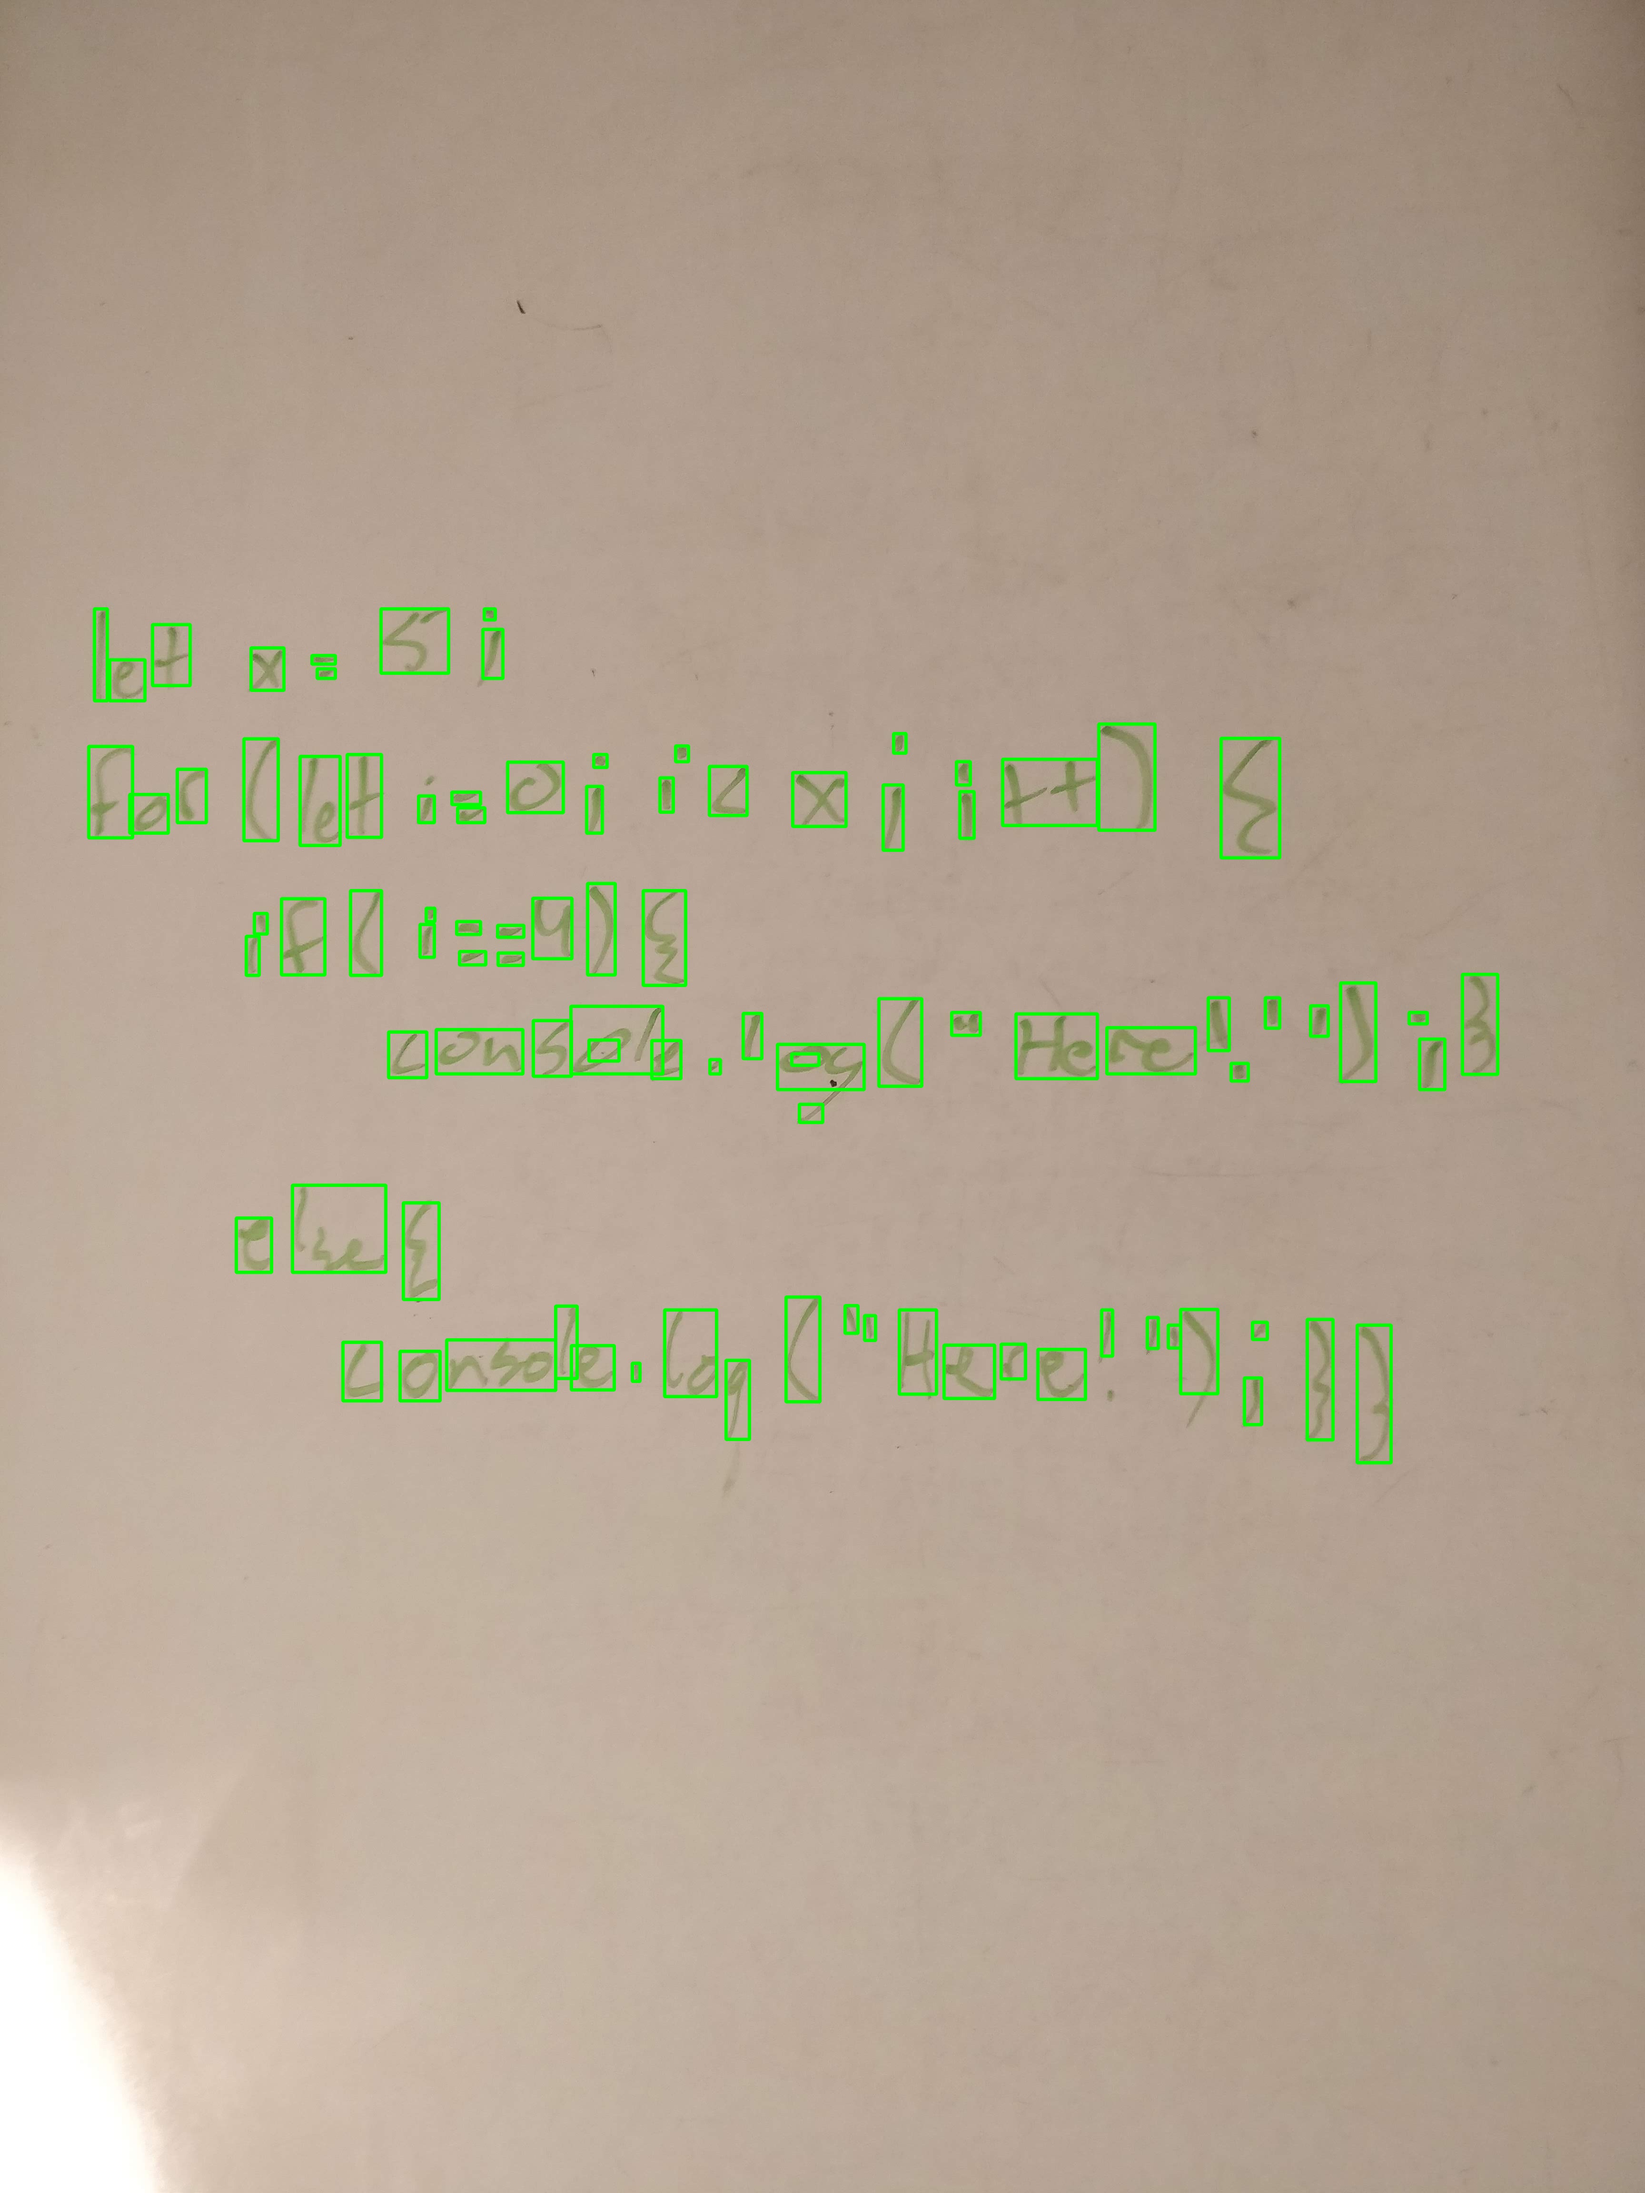
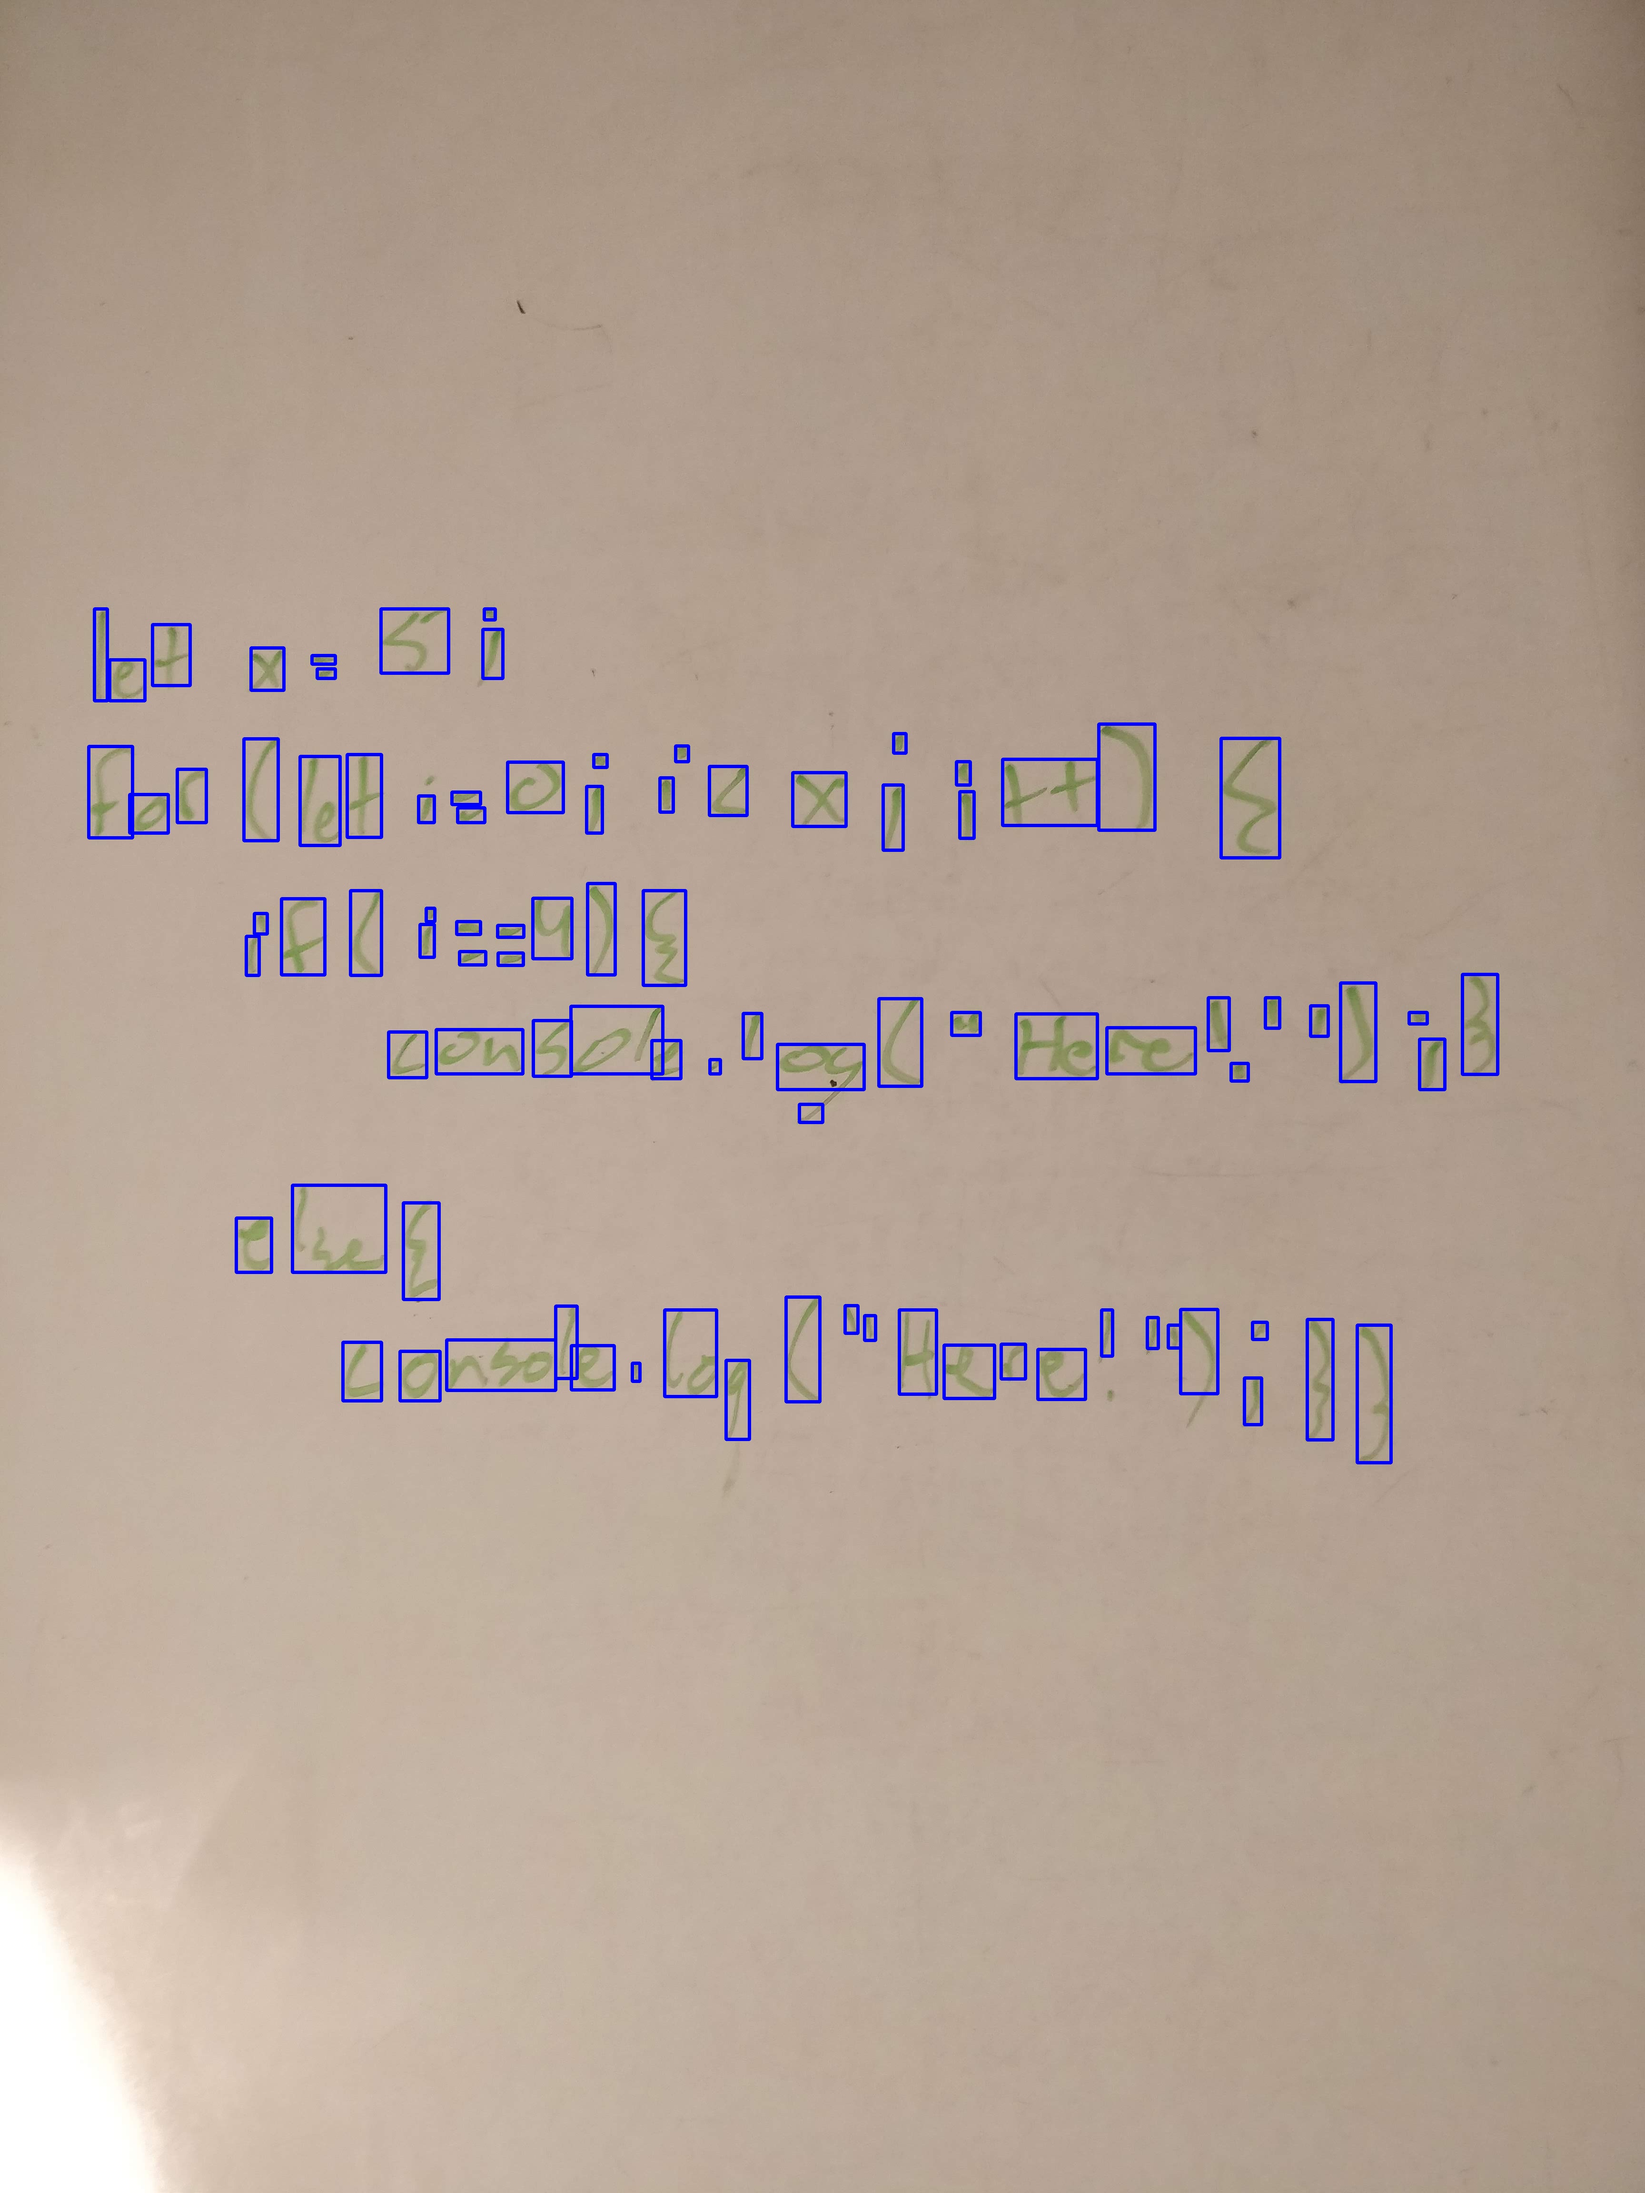
text detection

diff --git a/textdetection/textdetection.py b/textdetection/textdetection.py
@@ -12,48 +12,253 @@ import filter
 
 class TextDetection:
 
-  def __init__(self, imageFile):
+    def __init__(self, imageFile):
 
-    self.imageFile = imageFile
-    self.img = cv.imread(self.imageFile)
-    self.listRect = []
+        self.imageFile = imageFile
+        self.img = cv.imread(self.imageFile)
+        self.original = cv.imread(self.imageFile)
+        self.listRect = []
+        self.listLines = []
+        self.listImages = []
 
-  def boxCharacters(self):
-      f = filter.ColorFilter()
-      img = f.process(self.img)
+    def execute(self):
+        self.boxCharacters()
+        self.deleteBoxinBox()
+        self.genLists()
+        self.sortListLines()
+        self.combineVertical()
+        self.sortLines()
+        self.writeRectsToImage()
+        self.cutImages()
 
-      im2, contours, hierarchy = cv.findContours(img, cv.RETR_TREE, cv.CHAIN_APPROX_SIMPLE)
-      im2 = cv.rectangle(im2, (0,0), (100,100), (0,255,0))
+   # KEEP
 
-      im2 = np.reshape(im2, (*im2.shape, 1))
-      im2 = np.append(im2, np.append(im2, im2, axis=2), axis=2)
+    def boxCharacters(self):
+        f = filter.ColorFilter()
+        img = f.process(self.img)
+        self.img = img
 
-      for c in contours:
-          x, y, w, h = cv.boundingRect(c)
+        im2, contours, hierarchy = cv.findContours(
+            img, cv.RETR_TREE, cv.CHAIN_APPROX_SIMPLE)
+        im2 = cv.rectangle(im2, (0, 0), (100, 100), (0, 255, 0))
 
-          if w*h > 500:
-              self.listRect.append(cv.boundingRect(c))    
+        im2 = np.reshape(im2, (*im2.shape, 1))
+        im2 = np.append(im2, np.append(im2, im2, axis=2), axis=2)
 
-  def writeRectsToImage(self):
-      vis = self.img.copy()
-      for rect in self.listRect:
-          x, y, w, h = rect
-          cv.rectangle(vis, (x, y), (x+w, y+h), (0, 255, 0), thickness=5)
-      cv.imwrite('output.jpg', vis)
+        for c in contours:
+            x, y, w, h = cv.boundingRect(c)
 
-  def checkRectInRect(self, rectIndex1, rectIndex2, rect1Tuple, rect2Tuple):
-      x1, y1, w1, h1 = rect1Tuple
-      x2, y2, w2, h2 = rect2Tuple
-      if x1 <= x2 and y1 <= y2 and x1+w1 <= x2+w2 and y1+h1 <= y2+w2:
-        self.listRect.pop(rectIndex1)
-        return True
-      elif x1 >= x2 and y1 >= y2 and x1+w1 >= x2+w2 and y1+h1 >= y2+h2:
-        self.listRect.pop(rectIndex2)
-        return True
-      else:
-        return False 
+            if w*h > 100:
+                self.listRect.append(cv.boundingRect(c))
+    # KEEP
 
-text = TextDetection("image1.jpg")
-text.boxCharacters()
-text.writeRectsToImage()
+    def writeRectsToImage(self):
+        vis = self.original.copy()
+        counter = 0
+        for line in self.listLines:
+            for box in line:
+                if counter % 3 == 0:
+                    x, y, w, h = box
+                    cv.rectangle(vis, (x, y), (x+w, y+h),
+                                 (255, 0, 0), thickness=5)
+                elif counter % 3 == 1:
+                    x, y, w, h = box
+                    cv.rectangle(vis, (x, y), (x+w, y+h),
+                                 (0, 255, 0), thickness=5)
+                elif counter % 3 == 2:
+                    x, y, w, h = box
+                    cv.rectangle(vis, (x, y), (x+w, y+h),
+                                 (0, 0, 255), thickness=5)
+            counter += 1
+        # print(self.listRect)
+        cv.imwrite('outputNewRun5.jpg', vis)
 
+    def onSameLine(self, box1, box2):
+        x1, y1, w1, h1 = box1
+        x2, y2, w2, h2 = box2
+        upperBound = max(y1, y2)
+        lowerBound = min(y1 + h1, y2 + h2)
+        lengthOverlap = lowerBound - upperBound
+        shortEdge = min(h1, h2)
+        if lengthOverlap/shortEdge >= .05:
+            return True
+
+        else:
+            return False
+
+    def verticalOverlap(self, box1, box2):
+        x1, y1, w1, h1 = box1
+        x2, y2, w2, h2 = box2
+        upperBound = max(x1, x2)
+        lowerBound = min(x1 + w1, x2 + w2)
+        lengthOverlap = lowerBound - upperBound
+        shortEdge = min(w1, w2)
+        if lengthOverlap/shortEdge >= 0:
+            return True
+
+        else:
+            return False
+
+    def combineVertical(self):
+        for line in self.listLines:
+            # print(line)
+            addToLine = []
+            removeBoxes = []
+            for box1 in line:
+                for box2 in line:
+                    if box1 != box2:
+                        if self.verticalOverlap(box1, box2) == True:
+                            x1, y1, w1, h1 = box1
+                            x2, y2, w2, h2 = box2
+
+                            x = min(x1, x2)
+                            y = min(y1, y2)
+                            h = abs(y - max(y1 + h1, y2 + h2))
+                            w = abs(x - max(x1 + w1, x2 + w2))
+                            newBox = (x, y, w, h)
+
+                            addToLine.append(newBox)
+                            if box1 not in removeBoxes:
+                                removeBoxes.append(box1)
+                            if box2 not in removeBoxes:
+                                removeBoxes.append(box2)
+
+            for box in removeBoxes:
+                line.remove(box)
+            for box in addToLine:
+                line.append(box)
+
+    # KEEP
+    def genLists(self):
+        setLines = []
+        while len(self.listRect) > 0:
+            setLines.append(self.setRecurse(0))
+        self.listLines = setLines
+
+    def setRecurse(self, index):
+        line = []
+        startingBox = self.listRect[index]
+        line.append(startingBox)
+        for box2 in self.listRect:
+            if box2 != startingBox and self.listRect.index(box2) != self.listRect.index(startingBox) and abs(startingBox[0] - box2[0]) < 500:
+                if self.onSameLine(startingBox, box2):
+                    line.append(box2)
+
+        if len(line) > index + 1:
+            self.recurseNext(index + 1, line)
+
+        for box in line:
+            self.listRect.remove(box)
+
+        return(line)
+
+    def recurseNext(self, index, array):
+        startingBox = self.listRect[index]
+        for box2 in self.listRect:
+            if box2 != startingBox and self.listRect.index(box2) != self.listRect.index(startingBox):
+                if self.onSameLine(startingBox, box2) and box2 not in array and abs(startingBox[0] - box2[0]) < 500:
+                    array.append(box2)
+
+        if len(array) > index + 1:
+            # print(array)
+            self.recurseNext(index + 1, array)
+
+    # KEEP
+    def sortListLines(self):
+        averageYs = []
+        sortedListofLines = []
+        for line in self.listLines:
+            yBox = []
+            for box in line:
+                yBox.append(box[1])
+            averageYs.append(sum(yBox)/len(yBox))
+
+        sortedAverageYs = sorted(averageYs)
+        # print(averageYs)
+        # print(sortedAverageYs)
+        for index, value in enumerate(sortedAverageYs):
+            originalIndex = averageYs.index(value)
+            sortedListofLines.append(self.listLines[originalIndex])
+
+        self.listLines = sortedListofLines
+
+    # KEEP
+
+    def deleteBoxinBox(self):
+        for box1 in self.listRect:
+            for box2 in self.listRect:
+                if box1 != box2 and self.listRect.index(box1) != self.listRect.index(box2):
+                    x1, y1, w1, h1 = box1
+                    x2, y2, w2, h2 = box2
+                    if x1 < x2 and y1 < y2 and x1 + w1 > x2 + w2 and y1 + h1 > y2 + h2:
+                        self.listRect.remove(box2)
+
+    def sortLines(self):
+        for line in self.listLines:
+            line.sort(key=lambda tup: tup[0])
+
+    def cutImages(self):
+        listImages = []
+        maxDimension = 0
+        maxLine = -1
+        maxBox = -1
+        for lineIndex, line in enumerate(self.listLines):
+            lineImages = []
+            for boxIndex, box in enumerate(line):
+                x, y, w, h = box
+                if w > maxDimension:
+                    maxDimension = w
+                    maxBox = boxIndex
+                if h > maxDimension:
+                    maxDimension = h
+                    maxLine = lineIndex
+                img = self.img[box[1]: box[1] + box[3], box[0]: box[0] + box[2]]
+                
+                
+                img = cv.GaussianBlur(img, (0, 0), 1)
+                
+
+
+                lineImages.append(img)
+            listImages.append(lineImages)
+        self.listImages = listImages
+        
+        if maxDimension % 2 == 1:
+            maxDimension += 1
+        
+        listProcessedImages = np.zeros((0, 32, 32))
+        
+        for lineIndex, line in enumerate(self.listLines):
+            for boxIndex, box in enumerate(line):
+                newImg = np.zeros((maxDimension, maxDimension))
+                x, y, w, h = box
+
+                yDiff = (maxDimension - h)/2
+                xDiff = (maxDimension - w)/2
+                yDiffInt = int((maxDimension - h)/2)
+                xDiffInt = int((maxDimension - w)/2)
+                adjustX = 0
+                adjustY = 0
+
+                if yDiffInt != yDiff:
+                    adjustY = 1
+
+                if xDiffInt != xDiff:
+                    adjustX = 1
+
+                np.set_printoptions(threshold=10000000)
+                
+                newImg[yDiffInt: maxDimension - yDiffInt - adjustY, xDiffInt: maxDimension - xDiffInt - adjustX] = self.listImages[lineIndex][boxIndex]
+                
+                newImg = cv.resize(newImg, (32, 32), interpolation=cv.INTER_CUBIC)
+                maxNewImg = np.max(newImg)
+
+                newImg = np.reshape(newImg, (1, 32, 32))
+                newImg = (newImg/(np.max(newImg)))-0.13147026078678872
+                listProcessedImages = np.append(listProcessedImages, newImg, axis = 0)
+
+            zeroMatrix = np.zeros((1, 32, 32))
+            listProcessedImages = np.append(listProcessedImages, zeroMatrix, axis = 0)
+
+#text = TextDetection("image4.jpg")
+#text.execute()
